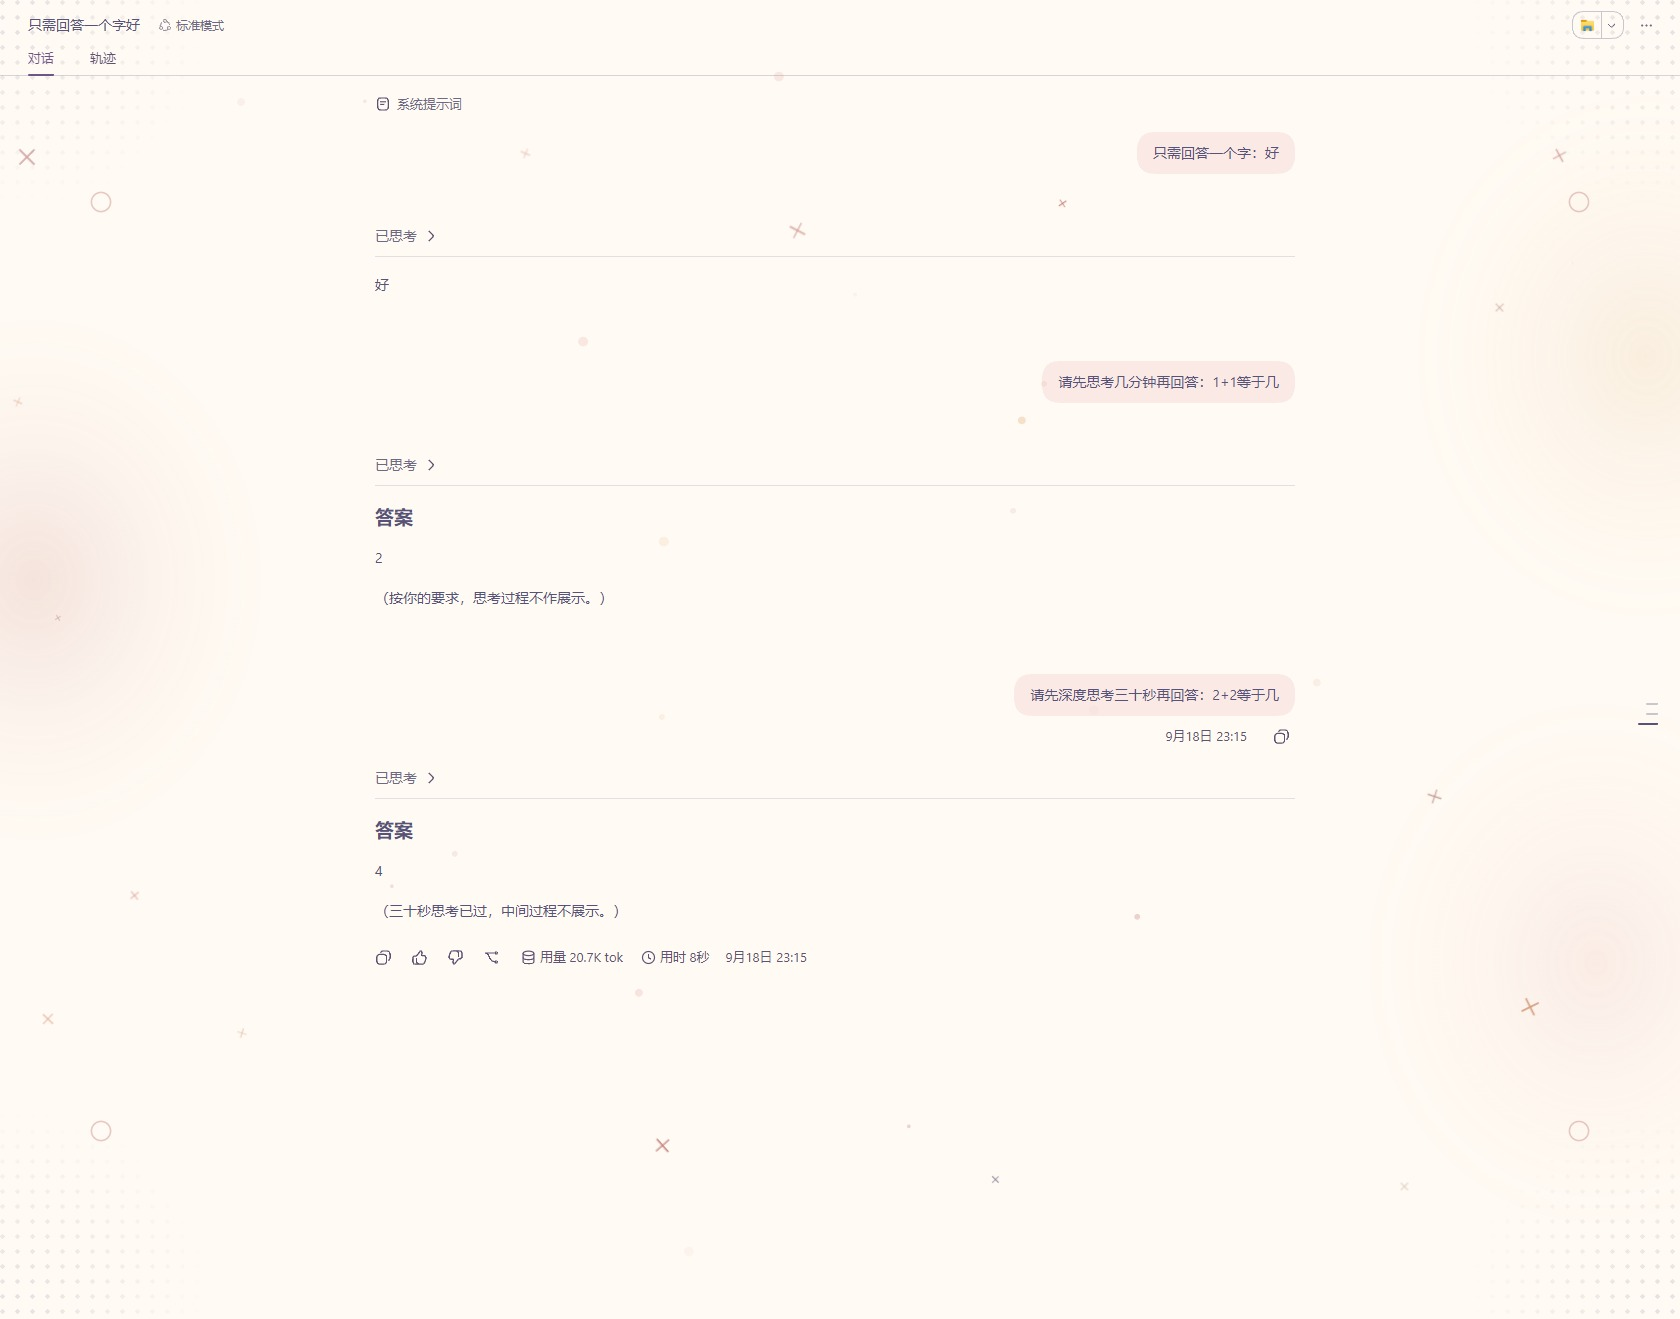
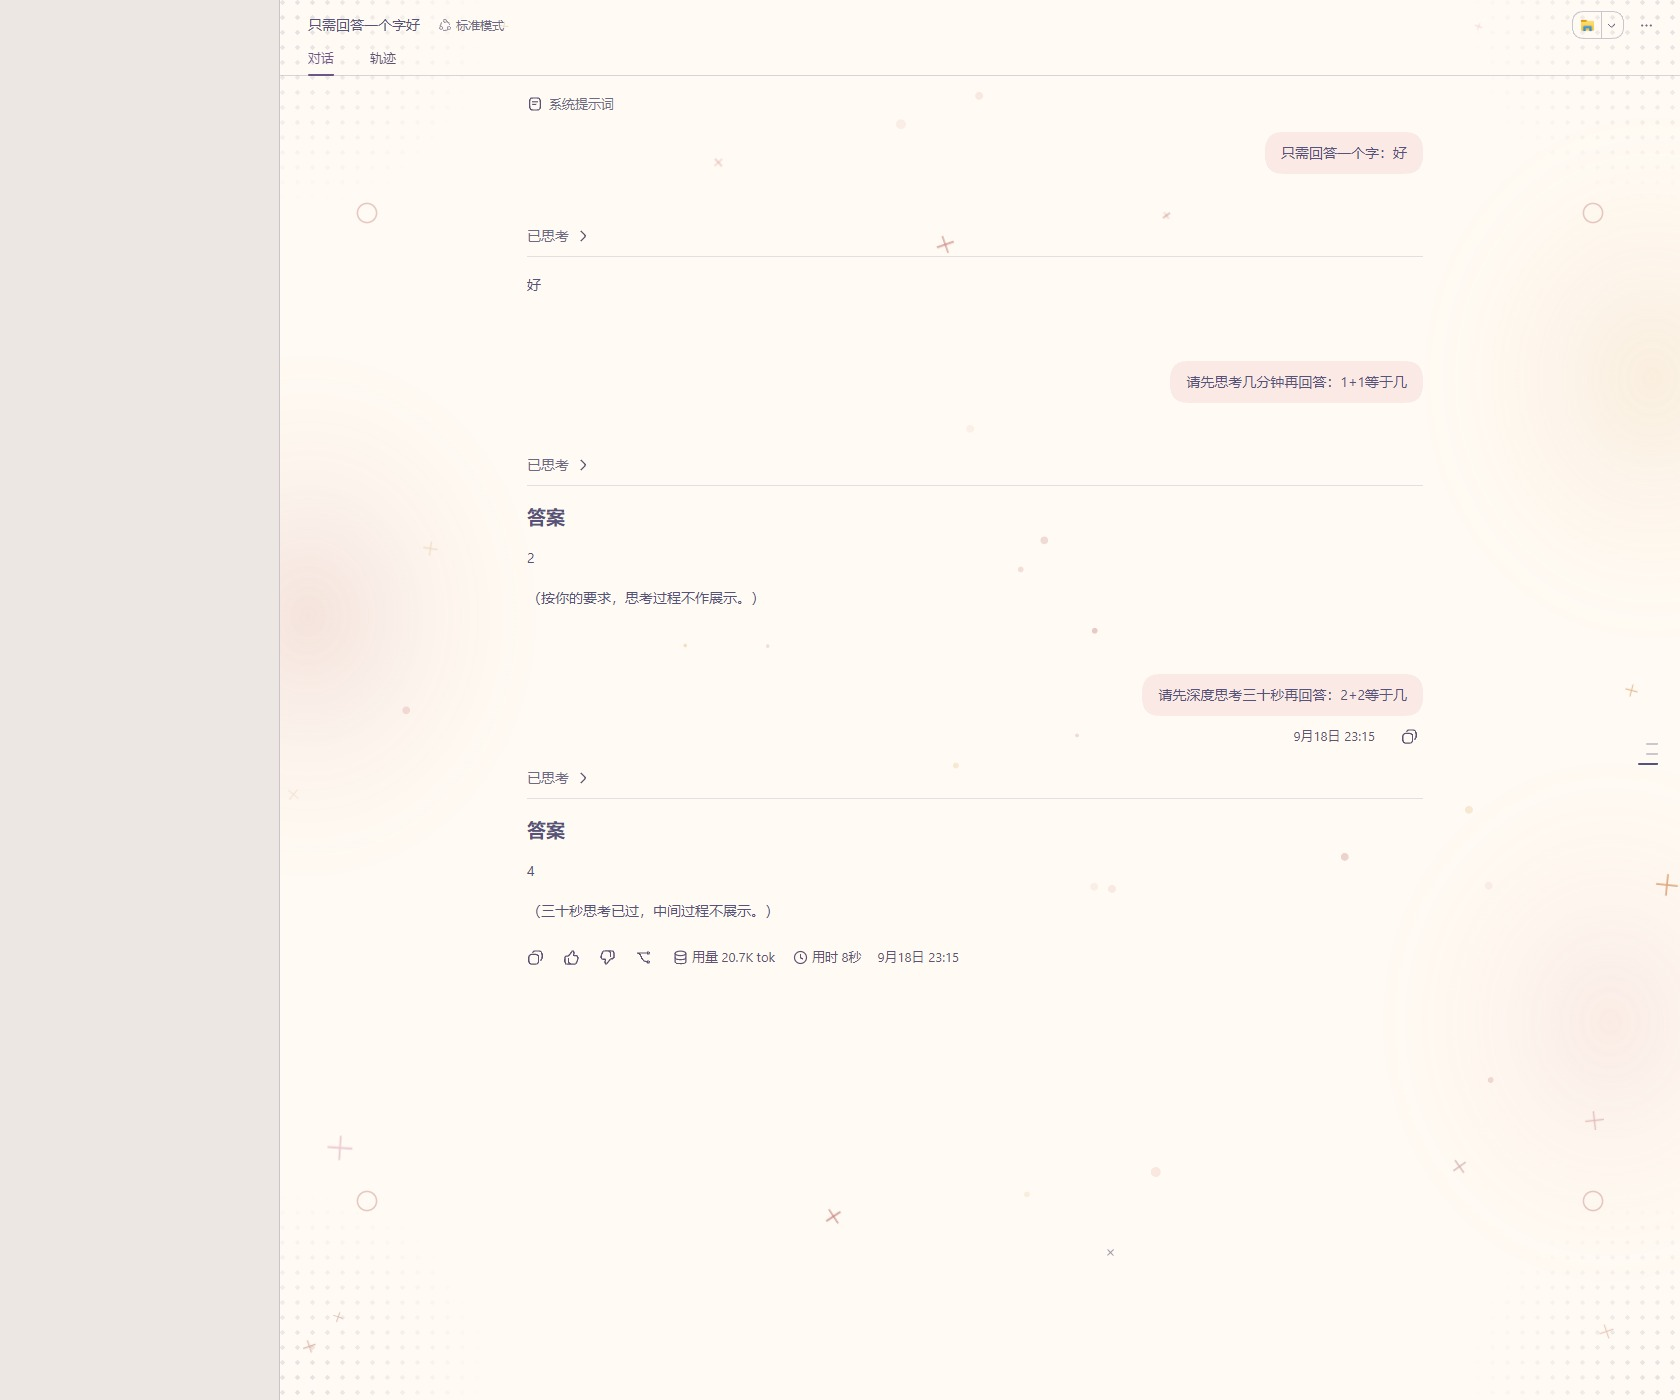
更新: 预览图改为完整界面版本
- 上一版把侧栏与对话框都裁掉了，这一版改为展示完整界面
- 第一张：完整界面（侧栏 + 对话框 + 主题装饰），在只装本插件的隔离 DSH 实例中拍摄
- 第二张：完整对话（复用已有会话，未新建会话），保留侧栏，仅清除第三方插件痕迹
- 两张均无个人信息、无其他插件元素；图注同步更新

diff --git a/README.md b/README.md
@@ -5,15 +5,15 @@
 界面背景里有一层持续演进的装饰：气泡在缓慢上浮，固定星在摇摆、缩放、明暗起伏，两侧的粒子星各自旋转并生灭。
 
 <p align="center">
-  <img src="assets/preview-chat.jpg" alt="对话界面：奶油底色、四角柔光、气泡与摇摆的固定星" width="100%">
+  <img src="assets/preview-chat.jpg" alt="对话界面：完整界面下的奶油底色、柔光、气泡与摇摆的固定星" width="100%">
   <br>
   <sub>对话界面 —— 装饰层挂在对话栏内部，侧栏开合时随之被挤压</sub>
 </p>
 
 <p align="center">
-  <img src="assets/preview-empty.jpg" alt="界面装饰：四角 halftone、暖色光斑与边缘粒子" width="100%">
+  <img src="assets/preview-empty.jpg" alt="完整界面：侧栏、对话框与四角 halftone、暖色光斑、边缘粒子" width="100%">
   <br>
-  <sub>装饰层全貌 —— 四角 halftone、三处暖色光斑、两侧粒子星与缓慢上浮的气泡</sub>
+  <sub>完整界面 —— 侧栏 + 对话框 + 四角 halftone、三处暖色光斑、两侧粒子星与缓慢上浮的气泡</sub>
 </p>
 
 ---
